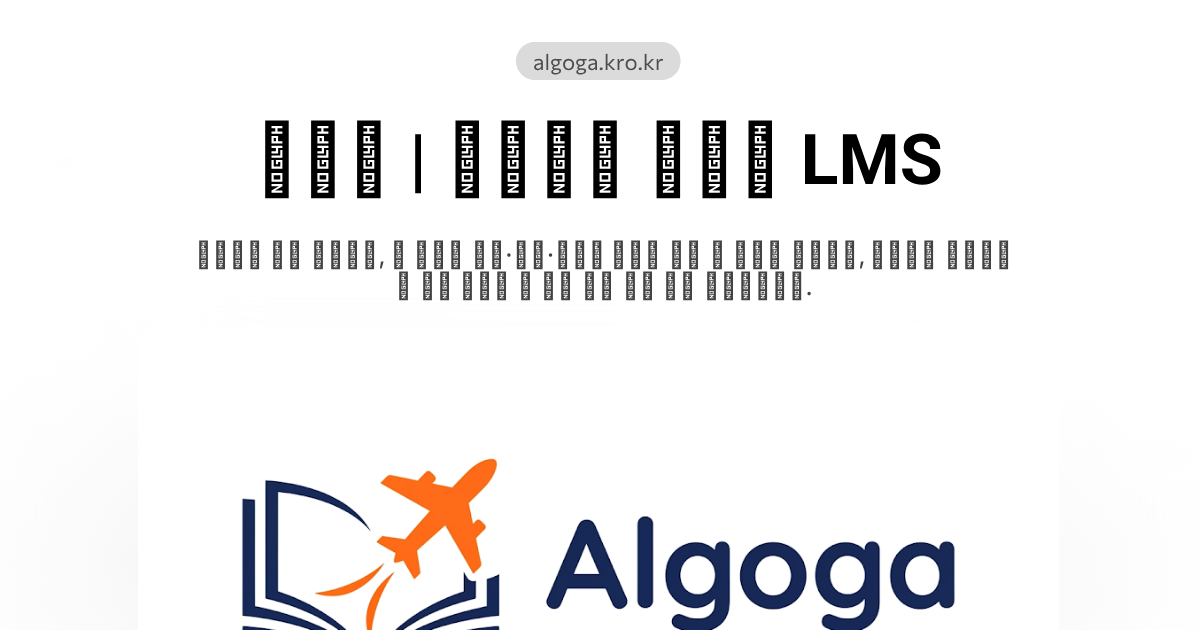
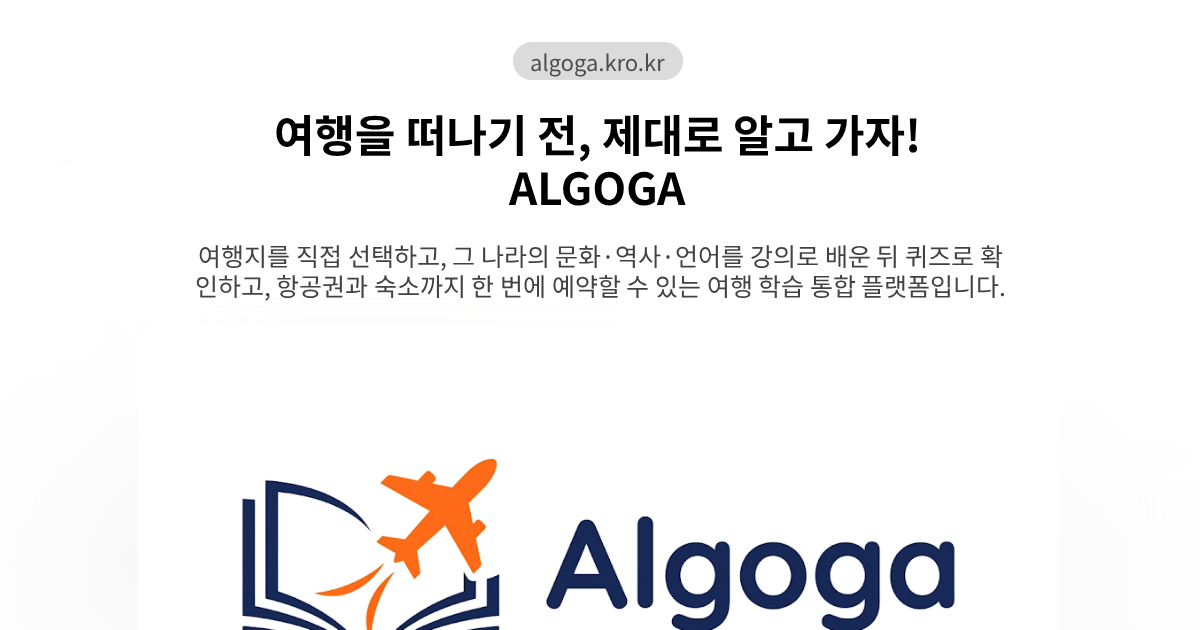
[Fix] 오픈그래프 이미지 수정 및 홈 페이지 리치스니팻 적용#420

Changed region(s): [[0.1542, 0.3619, 0.8633, 0.4825], [0.2158, 0.181, 0.8017, 0.3317], [0.4317, 0.0905, 0.555, 0.1206]]

diff --git a/src/app/(user)/page.tsx b/src/app/(user)/page.tsx
@@ -3,88 +3,109 @@ import Banner from "@/features/main/banner/components/Banner";
 import MapSection from "./main/MapSection";
 import ScheduleCalendar from "@/features/main/calendar/components/ScheduleCalendar";
 import NoticeSection from "@/features/main/notice/components/NoticeSection";
+import {
+  createOrganizationJsonLd,
+  createWebSiteJsonLd,
+} from "@/features/seo/schema";
+
+const LoadingBox = ({ height }: { height: string }) => (
+  <div className={`${height} animate-pulse rounded-2xl bg-white/70`} />
+);
 
 const AiSchedule = dynamic(
   () => import("@/features/main/AiSchedule/components/AiSchedule"),
   {
-    loading: () => (
-      <div className="h-32 animate-pulse rounded-2xl bg-white/70" />
-    ),
+    loading: () => <LoadingBox height="h-32" />,
   }
 );
 
 const LearnMethod = dynamic(
   () => import("@/features/main/learningmethod/LearningMethod"),
   {
-    loading: () => (
-      <div className="h-40 animate-pulse rounded-2xl bg-white/70" />
-    ),
+    loading: () => <LoadingBox height="h-40" />,
   }
 );
 
 export default async function Home() {
+  const jsonLd = [createOrganizationJsonLd(), createWebSiteJsonLd()];
+
   return (
-    <main className="relative min-h-screen overflow-x-hidden bg-[#F3F8FC] px-4 pb-6 pt-4 sm:px-6 lg:px-8">
-      <h1 className="sr-only">알고가 메인 페이지</h1>
+    <>
+      <script
+        type="application/ld+json"
+        dangerouslySetInnerHTML={{
+          __html: JSON.stringify(jsonLd),
+        }}
+      />
 
-      <div className="pointer-events-none absolute -left-28 top-40 h-72 w-72 rounded-full bg-[#DDEFF3]/60" />
-      <div className="pointer-events-none absolute -right-32 top-[720px] h-80 w-80 rounded-full bg-[#E8F3E8]/70" />
-      <div className="pointer-events-none absolute -left-28 top-[1200px] h-72 w-72 rounded-full bg-[#DDEFF3]/60" />
+      <main className="relative min-h-screen overflow-x-hidden bg-[#F3F8FC] px-4 pb-6 pt-4 sm:px-6 lg:px-8">
+        <h1 className="sr-only">알고가 메인 페이지</h1>
 
-      <div className="relative">
-        <section className="mx-auto flex h-[calc(100dvh-88px)] w-full max-w-6xl flex-col">
-          <header className="mb-3 flex shrink-0 flex-col justify-between gap-3 px-1 sm:flex-row sm:items-end">
-            <div>
-              <h2 className="text-2xl font-bold text-[#0A1628] sm:text-3xl">
-                여행지를 선택하고 학습을 시작하세요
-              </h2>
+        {/* 배경 장식 */}
+        <div className="pointer-events-none absolute -left-28 top-40 h-72 w-72 rounded-full bg-[#DDEFF3]/60" />
+        <div className="pointer-events-none absolute -right-32 top-[720px] h-80 w-80 rounded-full bg-[#E8F3E8]/70" />
+        <div className="pointer-events-none absolute -left-28 top-[1200px] h-72 w-72 rounded-full bg-[#DDEFF3]/60" />
 
-              <p className="mt-1.5 text-sm leading-6 text-[#7C8A9A]">
-                관심 있는 국가를 지도에서 선택하고 여행에 필요한 강의와 정보를 확인해 보세요.
-              </p>
+        <div className="relative">
+          {/* 지도 섹션 */}
+          <section className="mx-auto flex h-[calc(100dvh-88px)] w-full max-w-6xl flex-col">
+            <header className="mb-3 flex shrink-0 flex-col justify-between gap-3 px-1 sm:flex-row sm:items-end">
+              <div>
+                <h2 className="text-2xl font-bold text-[#0A1628] sm:text-3xl">
+                  여행지를 선택하고 학습을 시작하세요
+                </h2>
+
+                <p className="mt-1.5 text-sm leading-6 text-[#7C8A9A]">
+                  관심 있는 국가를 지도에서 선택하고 여행에 필요한 강의와
+                  정보를 확인해 보세요.
+                </p>
+              </div>
+            </header>
+
+            <div className="relative min-h-0 flex-1 overflow-hidden rounded-[28px] border border-[#DCE8EF] bg-white shadow-[0_16px_50px_rgba(55,88,110,0.12)]">
+              <MapSection />
             </div>
-          </header>
+          </section>
 
-          <div className="relative min-h-0 flex-1 overflow-hidden rounded-[28px] border border-[#DCE8EF] bg-white shadow-[0_16px_50px_rgba(55,88,110,0.12)]">
-            <MapSection />
-          </div>
-        </section>
+          {/* 배너 섹션 */}
+          <section className="mx-auto mt-5 w-full max-w-6xl">
+            <Banner />
+          </section>
 
-        <section className="mx-auto mt-5 w-full max-w-6xl">
-          <Banner />
-        </section>
+          {/* 여행 학습 플래너 섹션 */}
+          <section className="mx-auto mt-5 w-full max-w-6xl">
+            <header className="mb-3 flex items-end justify-between gap-4">
+              <div>
+                <p className="text-xs font-bold tracking-[0.12em] text-[#439A97]">
+                  MY TRAVEL DASHBOARD
+                </p>
 
-        <section className="mx-auto mt-5 w-full max-w-6xl">
-          <header className="mb-3 flex items-end justify-between gap-4">
-            <div>
-              <p className="text-xs font-bold tracking-[0.12em] text-[#439A97]">
-                MY TRAVEL DASHBOARD
-              </p>
+                <h2 className="mt-1 text-xl font-bold text-[#0A1628]">
+                  나의 여행 학습 플래너
+                </h2>
 
-              <h2 className="mt-1 text-xl font-bold text-[#0A1628]">
-                나의 여행 학습 플래너
-              </h2>
+                <p className="mt-1 text-sm text-[#8A94A6]">
+                  여행 준비와 학습 일정을 한눈에 관리해 보세요.
+                </p>
+              </div>
+            </header>
 
-              <p className="mt-1 text-sm text-[#8A94A6]">
-                여행 준비와 학습 일정을 한눈에 관리해 보세요.
-              </p>
+            <div className="grid items-start gap-5 lg:grid-cols-[minmax(0,2fr)_minmax(300px,1fr)]">
+              <ScheduleCalendar />
+
+              <aside className="flex min-w-0 flex-col gap-4 self-start">
+                <NoticeSection />
+                <AiSchedule />
+              </aside>
             </div>
-          </header>
+          </section>
 
-          <div className="grid items-start gap-5 lg:grid-cols-[minmax(0,2fr)_minmax(300px,1fr)]">
-            <ScheduleCalendar />
-
-            <aside className="flex min-w-0 flex-col gap-4 self-start">
-              <NoticeSection />
-              <AiSchedule />
-            </aside>
-          </div>
-        </section>
-
-        <section className="mx-auto mt-5 w-full max-w-6xl">
-          <LearnMethod />
-        </section>
-      </div>
-    </main>
+          {/* 학습 방법 섹션 */}
+          <section className="mx-auto mt-5 w-full max-w-6xl">
+            <LearnMethod />
+          </section>
+        </div>
+      </main>
+    </>
   );
 }

diff --git a/src/features/services/mypage.service.ts b/src/features/services/mypage.service.ts
@@ -9,7 +9,6 @@ import type {
   VerifyPasswordRequest,
 } from "@/features/mypage/types";
 import { getMyCoupons } from "@/features/services/myBenefit.service";
-import { getMyPayments } from "@/features/services/SinglePayment.service";
 import { getMe } from "@/features/services/user.service";
 
 export class MyPageApiError extends Error {
@@ -100,7 +99,7 @@ export async function getMyPageUser(): Promise<MyPageUser> {
 }
 
 export async function getMyPageData(): Promise<MyPageData> {
-  const [user, coupons, payments, courseCount] = await Promise.all([
+  const [user, coupons, courseCount] = await Promise.all([
     getMyPageUser(),
 
     getMyCoupons().catch((error) => {
@@ -108,13 +107,8 @@ export async function getMyPageData(): Promise<MyPageData> {
       return [];
     }),
 
-    getMyPayments().catch((error) => {
-      console.error("결제 내역 조회 실패:", error);
-      return [];
-    }),
-
     getMyCourseCount().catch((error) => {
-      console.error("수강 강좌 개수 조회 실패:", error);
+      console.error("수강 강의 개수 조회 실패:", error);
       return 0;
     }),
   ]);
@@ -123,7 +117,7 @@ export async function getMyPageData(): Promise<MyPageData> {
     user,
     summary: {
       courseCount,
-      reservationCount: Array.isArray(payments) ? payments.length : 0,
+      reservationCount: 0,
       couponCount: Array.isArray(coupons) ? coupons.length : 0,
     },
   };

diff --git a/src/app/(user)/mypage/layout.tsx b/src/app/(user)/mypage/layout.tsx
@@ -1,6 +1,19 @@
+import type { Metadata } from "next";
 import { MyPageDataProvider } from "@/features/mypage/MyPageDataProvider";
 import MyPageShell from "@/features/mypage/MyPageShell";
 
+export const dynamic = "force-dynamic";
+export const revalidate = 0;
+
+export const metadata: Metadata = {
+    title: "마이페이지",
+    description: "내 강의, 예약, 쿠폰과 마일리지 정보를 확인하세요.",
+    openGraph: {
+        title: "마이페이지 | ALGOGA",
+        description: "내 강의, 예약, 쿠폰과 마일리지 정보를 확인하세요.",
+        url: "/mypage",
+    },
+};
 
 export default function MyPageRouteLayout({ children }: {
     children: React.ReactNode;
